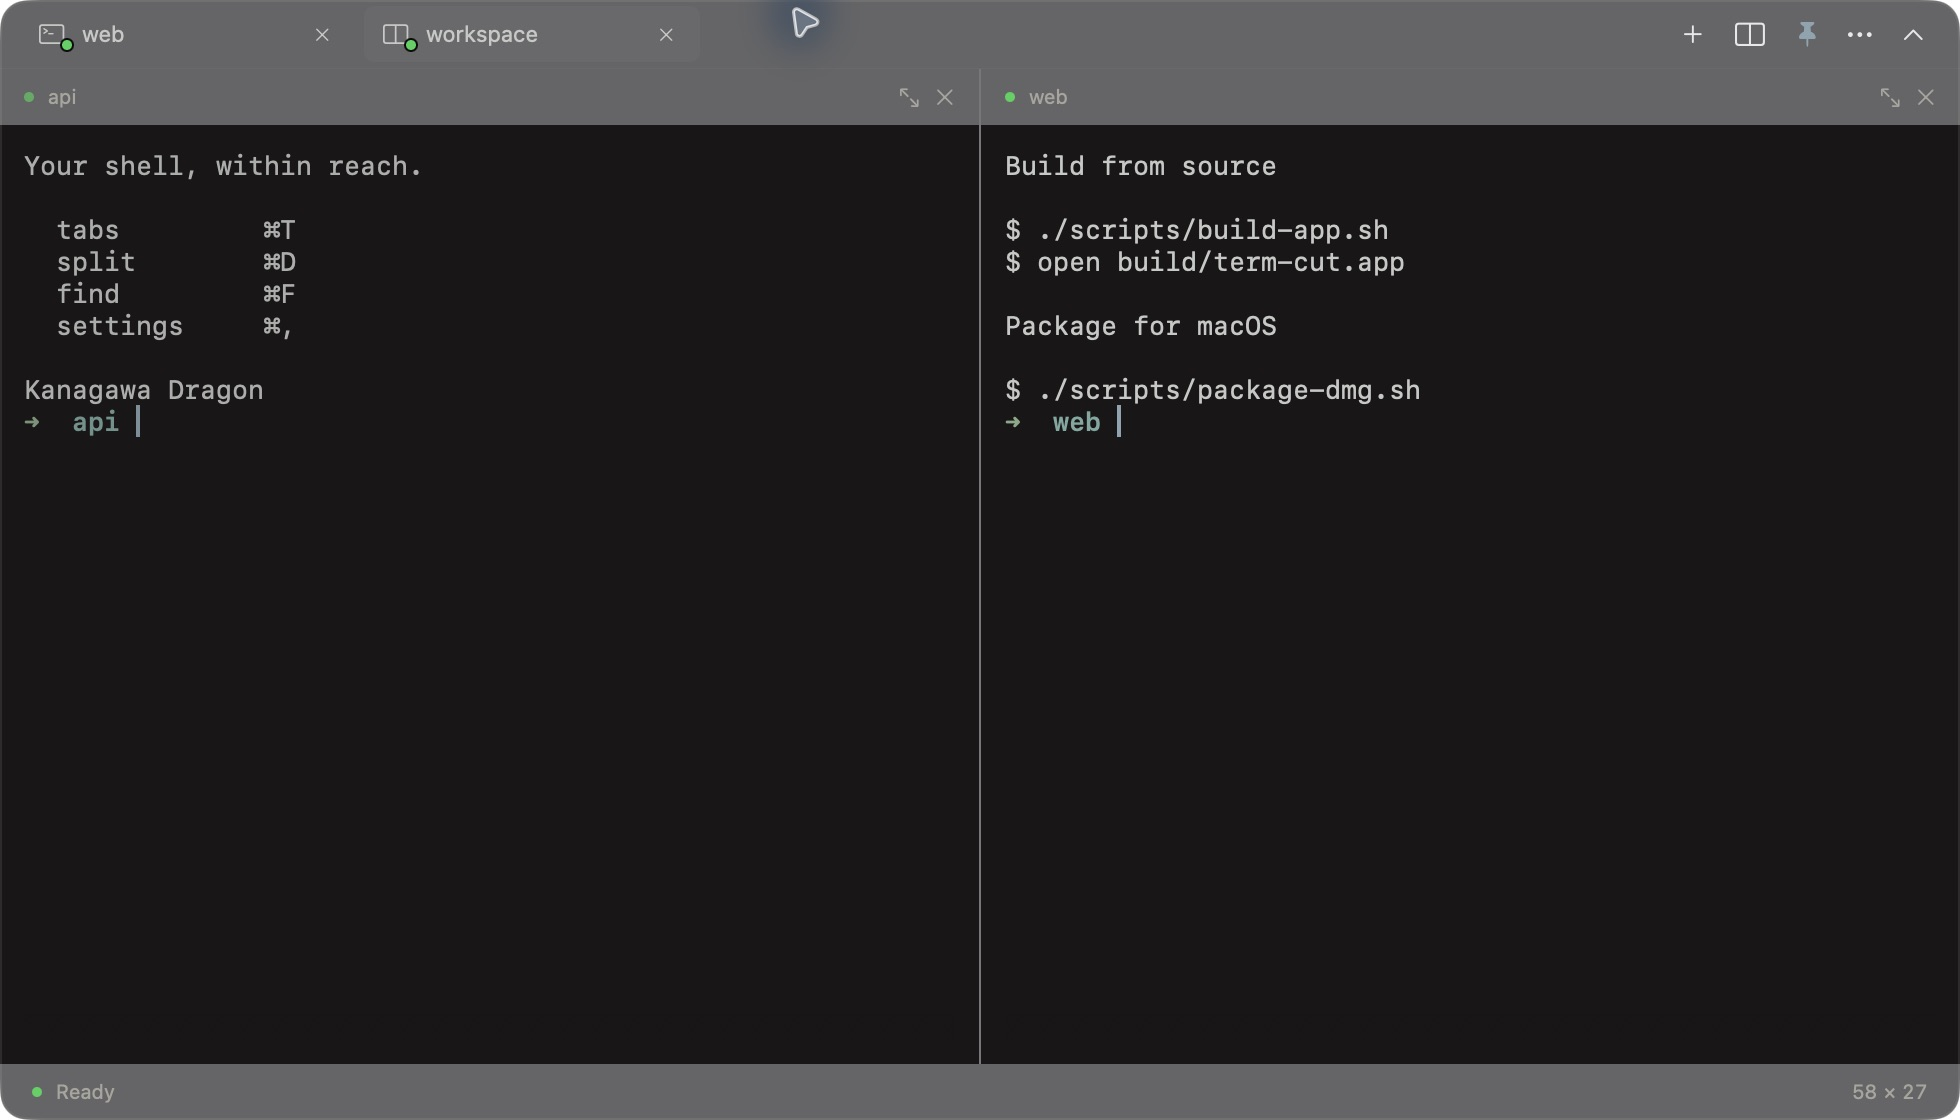
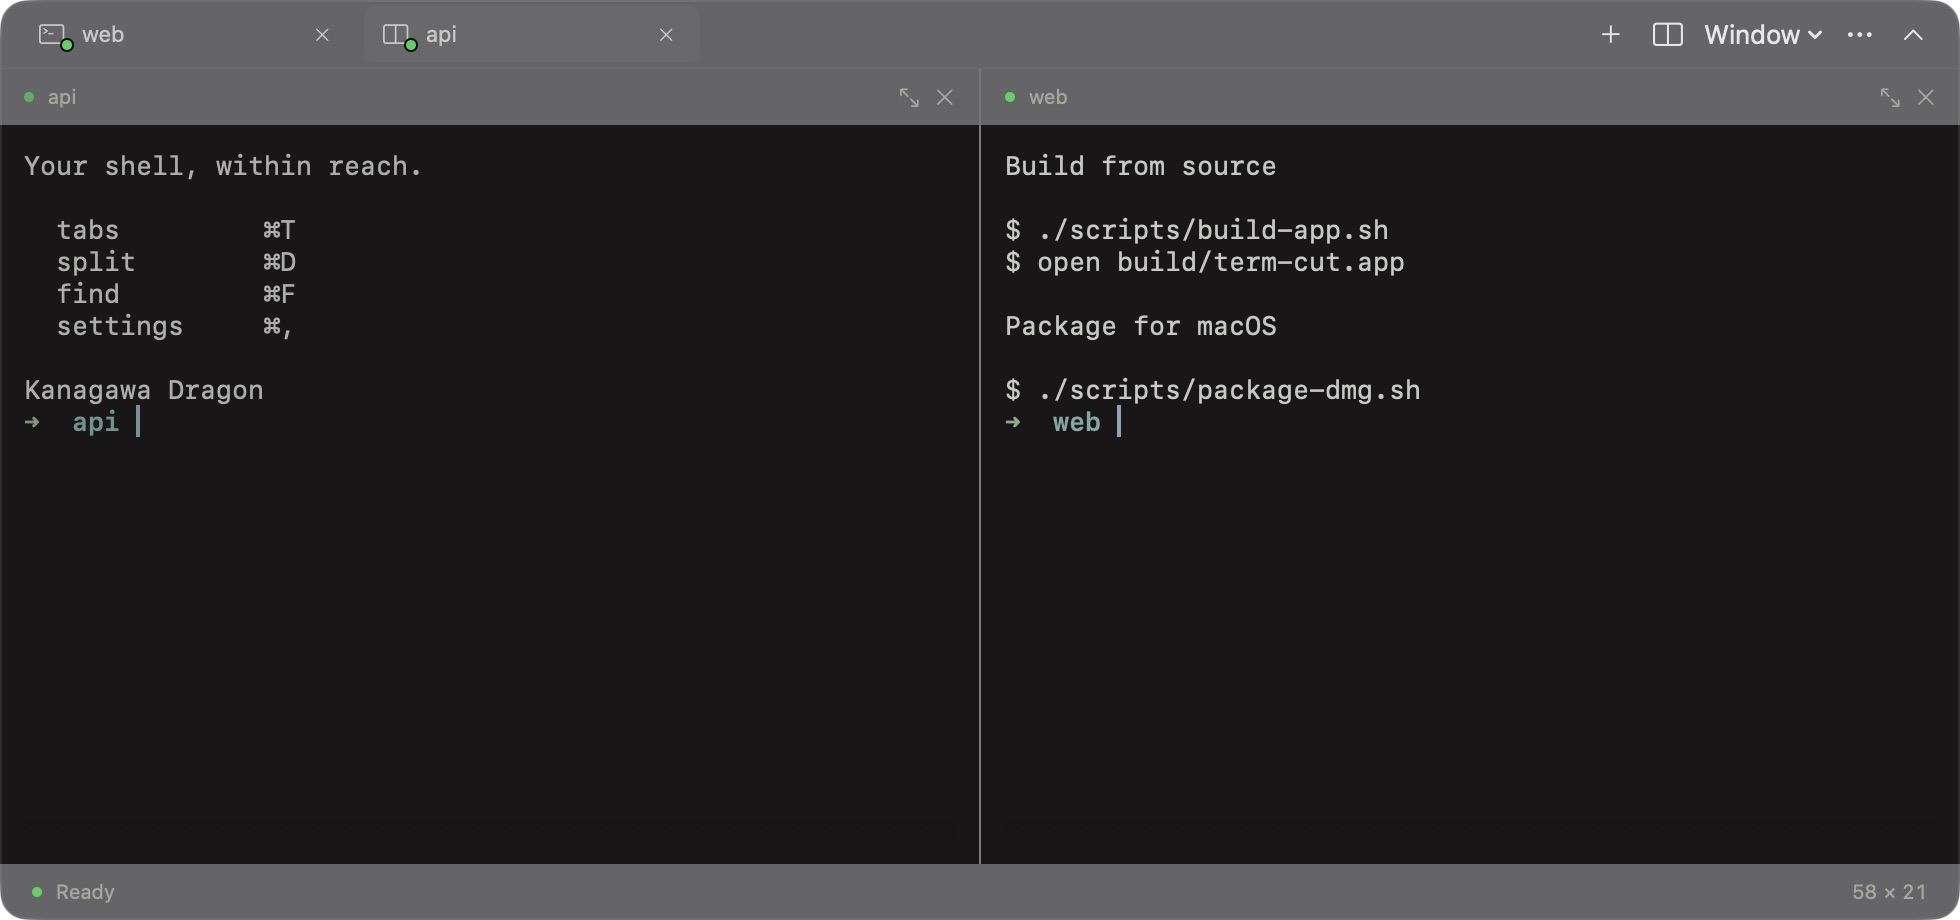
Put Floating Window and Top Drawer at the center of term-cut

diff --git a/Sources/TermCut/SettingsView.swift b/Sources/TermCut/SettingsView.swift
@@ -57,8 +57,8 @@ struct SettingsView: View {
                 if SettingsSection.general.matches(search) {
                     Section("General") {
                         Picker("Window mode", selection: $workspace.mode) {
-                            Text("Compact panel").tag(PanelMode.compact)
-                            Text("Drop-down terminal").tag(PanelMode.dropDown)
+                            Text(PanelMode.compact.displayName).tag(PanelMode.compact)
+                            Text(PanelMode.dropDown.displayName).tag(PanelMode.dropDown)
                         }
                         Toggle("Show terminal on launch", isOn: $settings.value.showOnLaunch)
                         Toggle("Keep visible when switching apps", isOn: $settings.value.keepVisible)
@@ -101,13 +101,13 @@ struct SettingsView: View {
 
                 if SettingsSection.windows.matches(search) {
                     Section("Windows") {
-                        numberSlider("Compact width", value: $settings.value.compactWidth, range: 520...1200, step: 10,
+                        numberSlider("Floating window width", value: $settings.value.compactWidth, range: 520...1200, step: 10,
                                      label: "\(Int(settings.value.compactWidth)) pt")
-                        numberSlider("Compact height", value: $settings.value.compactHeight, range: 300...850, step: 10,
+                        numberSlider("Floating window height", value: $settings.value.compactHeight, range: 300...850, step: 10,
                                      label: "\(Int(settings.value.compactHeight)) pt")
-                        numberSlider("Drop-down width", value: $settings.value.dropDownWidth, range: 0.5...1, step: 0.05,
+                        numberSlider("Drawer width", value: $settings.value.dropDownWidth, range: 0.5...1, step: 0.05,
                                      label: "\(Int((settings.value.dropDownWidth * 100).rounded()))%")
-                        numberSlider("Drop-down height", value: $settings.value.dropDownHeight, range: 0.3...0.9, step: 0.05,
+                        numberSlider("Drawer height", value: $settings.value.dropDownHeight, range: 0.3...0.9, step: 0.05,
                                      label: "\(Int((settings.value.dropDownHeight * 100).rounded()))%")
                         Text("You can also drag the window edges and pane dividers to resize them.")
                             .font(.caption).foregroundStyle(.secondary)
@@ -137,12 +137,12 @@ struct SettingsView: View {
                     Section("Keyboard Shortcuts") {
                         Toggle("Enable global shortcuts", isOn: $settings.value.shortcutsEnabled)
                         HStack {
-                            Text("Toggle compact panel"); Spacer()
+                            Text("Toggle floating window"); Spacer()
                             ShortcutRecorder(shortcut: $settings.value.compactShortcut)
                                 .frame(width: 170, height: 27).disabled(!settings.value.shortcutsEnabled)
                         }
                         HStack {
-                            Text("Toggle drop-down terminal"); Spacer()
+                            Text("Toggle top drawer"); Spacer()
                             ShortcutRecorder(shortcut: $settings.value.dropDownShortcut)
                                 .frame(width: 170, height: 27).disabled(!settings.value.shortcutsEnabled)
                         }

diff --git a/Sources/TermCut/SettingsSearch.swift b/Sources/TermCut/SettingsSearch.swift
@@ -6,17 +6,17 @@ enum SettingsSection: CaseIterable {
     private var searchTerms: String {
         switch self {
         case .general:
-            return "General Window mode Compact panel Drop-down terminal Show terminal on launch Keep visible when switching apps Launch at login startup pin menu bar hide visibility"
+            return "General Window mode Floating Window Top Drawer Compact panel Drop-down terminal Show terminal on launch Keep visible when switching apps Launch at login startup pin menu bar hide visibility"
         case .appearance:
             return "Appearance Terminal theme Font Installed font Custom font Text size Terminal padding Translucent window bars Animate window transitions Dim inactive panes Show status bar color typography glass transparency motion animations "
                 + TerminalTheme.allCases.map(\.rawValue).joined(separator: " ")
         case .windows:
-            return "Windows Compact width Compact height Drop-down width Drop-down height window panel dropdown size"
+            return "Windows Floating window width Floating window height Drawer width Drawer height Compact width Compact height Drop-down width Drop-down height window panel dropdown size"
         case .terminal:
             return "Terminal Cursor shape Blink cursor Scrollback history Use Option as Meta New sessions inherit the current directory shell panes tabs "
                 + TerminalCursor.allCases.map(\.rawValue).joined(separator: " ")
         case .keyboardShortcuts:
-            return "Keyboard Shortcuts Enable global shortcuts Toggle compact panel Toggle drop-down terminal New tab Split right down Next previous pane Focus pane Find in terminal Close pane Hide terminal hotkey keybind zoom"
+            return "Keyboard Shortcuts Enable global shortcuts Toggle floating window Toggle top drawer Toggle compact panel Toggle drop-down terminal New tab Split right down Next previous pane Focus pane Find in terminal Close pane Hide terminal hotkey keybind zoom"
         case .defaults: return "Restore Defaults reset settings"
         case .about: return "About term-cut version Made by berkinduz Source code contributions Buy me a coffee"
         }

diff --git a/Sources/TermCut/TerminalView.swift b/Sources/TermCut/TerminalView.swift
@@ -53,14 +53,21 @@ struct TerminalWindowView: View {
                 } label: { Image(systemName: "rectangle.split.2x1").frame(width: 27, height: 28) }
                 .menuStyle(.borderlessButton).menuIndicator(.hidden).fixedSize()
                 .help("Split terminal").accessibilityLabel("Split terminal")
-                iconButton(settings.value.keepVisible ? "pin.fill" : "pin", label: "Keep visible when switching apps",
-                           active: settings.value.keepVisible) { settings.value.keepVisible.toggle(); workspace.focusActive() }
                 Menu {
                     Picker("Window Mode", selection: Binding(get: { workspace.mode }, set: { workspace.onModeChange?($0) })) {
-                        Text("Compact").tag(PanelMode.compact)
-                        Text("Drop-down").tag(PanelMode.dropDown)
+                        ForEach(PanelMode.allCases, id: \.self) { mode in
+                            Text(mode.displayName).tag(mode)
+                        }
                     }
-                    .pickerStyle(.menu)
+                    .pickerStyle(.inline)
+                } label: {
+                    Text(workspace.mode.toolbarName).frame(height: 28).padding(.horizontal, 4)
+                }
+                .menuStyle(.borderlessButton).fixedSize()
+                .help("Window mode: \(workspace.mode.displayName)")
+                .accessibilityLabel("Window mode: \(workspace.mode.displayName)")
+                Menu {
+                    Toggle("Keep visible when switching apps", isOn: $settings.value.keepVisible)
                     Divider()
                     Button("Settings…") { workspace.onSettings?() }
                     Button("About term-cut") { workspace.onAbout?() }

diff --git a/Sources/TermCut/AppDelegate.swift b/Sources/TermCut/AppDelegate.swift
@@ -96,8 +96,8 @@ final class AppDelegate: NSObject, NSApplicationDelegate, NSMenuItemValidation {
     @objc private func statusItemClicked() {
         if NSApp.currentEvent?.type == .rightMouseUp {
             let menu = NSMenu()
-            add("Show Compact Terminal", action: #selector(showCompact), to: menu)
-            add("Show Drop-down Terminal", action: #selector(showDropDown), to: menu)
+            add("Show \(PanelMode.compact.displayName)", action: #selector(showCompact), to: menu)
+            add("Show \(PanelMode.dropDown.displayName)", action: #selector(showDropDown), to: menu)
             menu.addItem(.separator())
             add("Settings…", action: #selector(showSettings), key: ",", to: menu)
             add("About term-cut", action: #selector(showAbout), to: menu)
@@ -185,8 +185,8 @@ final class AppDelegate: NSObject, NSApplicationDelegate, NSMenuItemValidation {
         let find = add("Find…", action: #selector(NSTextView.performFindPanelAction(_:)), key: "f", to: edit, responderChain: true)
         find.tag = Int(NSFindPanelAction.showFindPanel.rawValue)
         let view = NSMenu(title: "View")
-        add("Compact Window", action: #selector(showCompact), to: view)
-        add("Drop-down Window", action: #selector(showDropDown), to: view)
+        add(PanelMode.compact.displayName, action: #selector(showCompact), to: view)
+        add(PanelMode.dropDown.displayName, action: #selector(showDropDown), to: view)
         view.addItem(.separator())
         add("Larger Text", action: #selector(increaseText), key: "+", to: view)
         add("Smaller Text", action: #selector(decreaseText), key: "-", to: view)

diff --git a/Tests/TermCutTests/SettingsSearchTests.swift b/Tests/TermCutTests/SettingsSearchTests.swift
@@ -4,10 +4,12 @@ import XCTest
 final class SettingsSearchTests: XCTestCase {
     func testVisibleLabelsAndThemeNamesFindTheirSections() {
         let examples: [(SettingsSection, String)] = [
-            (.general, "Window mode"), (.general, "Keep visible when switching apps"),
+            (.general, "Window mode"), (.general, "Floating Window"), (.general, "Top Drawer"),
+            (.general, "Keep visible when switching apps"),
             (.general, "Launch at login"), (.appearance, "Terminal theme"),
             (.appearance, "TEXT SIZE"), (.appearance, "Kanagawa Dragon"),
             (.appearance, "Translucent window bars"), (.windows, "drop down height"),
+            (.windows, "Floating window width"), (.windows, "Drawer height"),
             (.terminal, "Cursor shape"), (.terminal, "Use Option as Meta"),
             (.terminal, "New sessions inherit the current directory"),
             (.keyboardShortcuts, "New tab"), (.keyboardShortcuts, "Close pane"),

diff --git a/Sources/TermCut/PanelModePresentation.swift b/Sources/TermCut/PanelModePresentation.swift
@@ -1,0 +1,6 @@
+import TermCutCore
+
+extension PanelMode {
+    var displayName: String { self == .compact ? "Floating Window" : "Top Drawer" }
+    var toolbarName: String { self == .compact ? "Window" : "Drawer" }
+}

diff --git a/README.md b/README.md
@@ -9,19 +9,25 @@
 **Your terminal. One shortcut away.**
 
 A free, open-source terminal for Mac that lives in your menu bar.
-Open your shell with a global hotkey, work across tabs and split panes, and keep your flow.
+Float a window beside your work, or pull a terminal down from the top of your screen. Your tabs, panes, and running commands stay with you.
 
 [Download DMG](https://github.com/berkinduz/term-cut-menubar-terminal/releases/latest/download/term-cut.dmg) · [Features](#features) · [Build from source](#build-from-source) · [Shortcuts](#shortcuts)
 
 </div>
 
-![term-cut drop-down terminal with Kanagawa Dragon, tabs, and a single row of controls](docs/images/dropdown-preview.jpg)
+## Two ways to work
 
-*Open from the menu bar or a global shortcut.*
+| Floating Window | Top Drawer |
+| --- | --- |
+| A movable, resizable window for working beside your editor or browser. | A wide terminal that opens from the top of your screen and hides when you are done. |
+| ![Floating Window with tabs and split panes](docs/images/terminal-preview.jpg) | ![Top Drawer with Kanagawa Dragon and a thin toolbar](docs/images/dropdown-preview.jpg) |
+| Open with `⌃⌥Space`. | Open with `` ⌃⌥` ``. |
+
+Switch directly from the **Window / Drawer** menu in the toolbar. Both modes share the same sessions: a running command keeps running while you switch or hide the terminal. Set each mode's size and shortcut in Settings.
 
 ## Features
 
-- **Always within reach.** Open from the menu bar or a customizable global keyboard shortcut. Choose a floating panel or a drop-down terminal from **⋯ → Window Mode**.
+- **Always within reach.** Open from the menu bar or a customizable global keyboard shortcut. Choose a Floating Window or Top Drawer directly from the toolbar.
 - **Room to work.** Tabs, resizable split panes, pane focus, and search.
 - **Sessions that stay.** Hide the window or switch layouts while commands keep running.
 - **Status at a glance.** Small green, yellow, and red dots show ready, running, and failed commands in the menu bar, tabs, and panes.
@@ -30,8 +36,6 @@ Open your shell with a global hotkey, work across tabs and split panes, and keep
 - **A real terminal.** Your login shell, true color, Unicode, and interactive command-line tools. Powered by [SwiftTerm](https://github.com/migueldeicaza/SwiftTerm).
 
 ### Tabs and split panes
-
-![term-cut compact window with two tabs and side-by-side split panes](docs/images/terminal-preview.jpg)
 
 Keep separate tasks in tabs, split a workspace horizontally or vertically, and focus one pane when you need more room. Each tab remembers its selected pane. Labels show the folder name; hover over a tab or pane label for its full path and shell title. Right-click a tab to give it a name such as `server` or `tests`. The status bar keeps activity and terminal dimensions in view.
 
@@ -60,14 +64,14 @@ cd term-cut-menubar-terminal
 open build/term-cut.app
 ```
 
-Drag `build/term-cut.app` into Applications. Open **More options (⋯)** in the terminal for Settings, About, and **Window Mode**. You can also switch modes from the **View** menu or your global shortcuts. To create an Apple silicon + Intel build, add `--universal`. To package a disk image, run `./scripts/package-dmg.sh`.
+Drag `build/term-cut.app` into Applications. Open **More options (⋯)** in the terminal for Settings, About, and **Keep visible when switching apps**. Switch modes from the **Window / Drawer** toolbar menu, the **View** menu, or your global shortcuts. To create an Apple silicon + Intel build, add `--universal`. To package a disk image, run `./scripts/package-dmg.sh`.
 
 ## Shortcuts
 
 | Action | Shortcut |
 | --- | --- |
-| Toggle compact panel | `⌃⌥Space` |
-| Toggle drop-down | `` ⌃⌥` `` |
+| Toggle Floating Window | `⌃⌥Space` |
+| Toggle Top Drawer | `` ⌃⌥` `` |
 | New tab | `⌘T` |
 | Split right / down | `⌘D` / `⇧⌘D` |
 | Next / previous pane | `⌘]` / `⌘[` |
@@ -82,7 +86,7 @@ Global shortcuts can be changed in Settings. Escape stays available to your shel
 
 Closing a pane or tab, or quitting the app, asks for confirmation when a command or background job is still running. Cancelling leaves the sessions open.
 
-The menu bar reopens the current window mode, including after a macOS permission dialog. Your last mode is also remembered when you quit and reopen the app. Switch modes from **Settings → Window mode**, global shortcuts, or **⋯ → Window Mode**.
+The menu bar reopens the current window mode, including after a macOS permission dialog. Your last mode is also remembered when you quit and reopen the app. Switch modes from the toolbar, **Settings → Window mode**, or global shortcuts.
 
 ## Activity indicators
 

diff --git a/docs/releases/v0.2.0.md b/docs/releases/v0.2.0.md
@@ -1,5 +1,6 @@
 A smaller toolbar. A calmer terminal.
 
+- Two ways to work: a movable **Floating Window** and a **Top Drawer** that opens from the top of the screen. A visible toolbar menu switches modes while keeping the same sessions running.
 - Tabs and controls now share one thin, translucent row. The extra title header and control capsule are gone.
 - Kanagawa Dragon is the default theme, with its terminal colors, selection background, and ANSI palette.
 - A shared visual identity depicts a terminal opening from the menu bar, with a simpler monochrome version for the status item.
